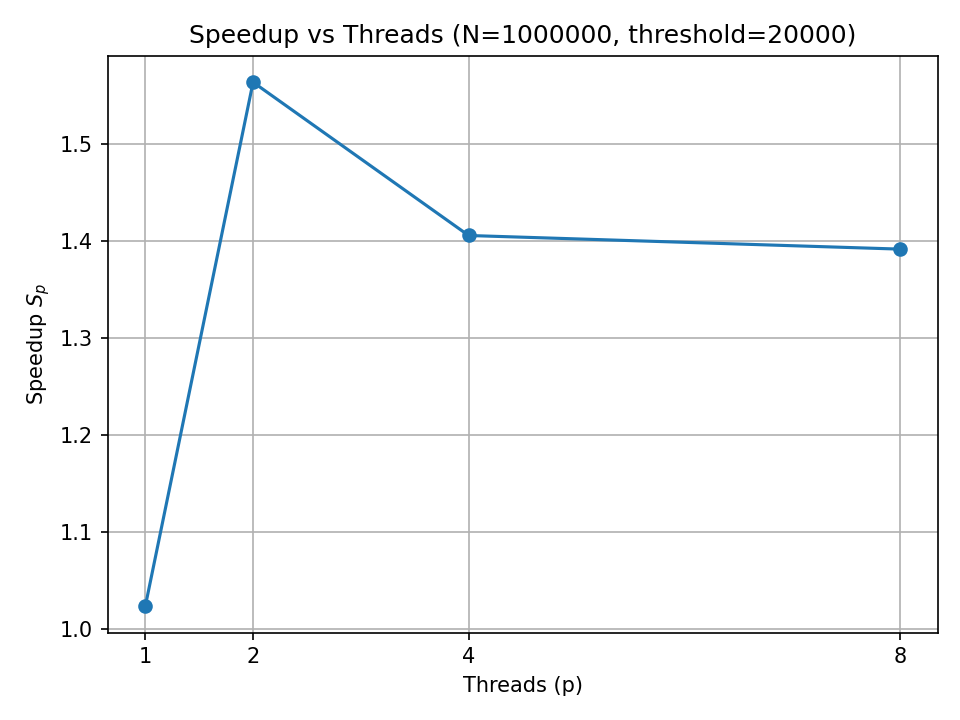
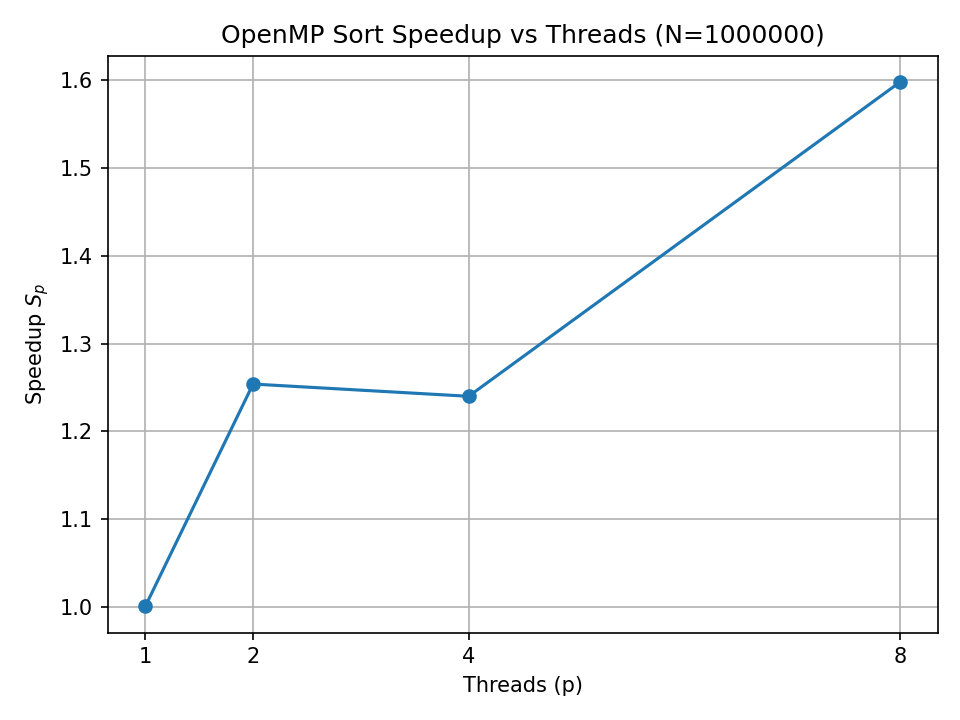
Fix lab2 speedup plot script and update N=1e6 results

diff --git a/labs/lab2_openmp_sort/plot_speedup.py b/labs/lab2_openmp_sort/plot_speedup.py
@@ -1,0 +1,82 @@
+import argparse
+import csv
+
+import matplotlib.pyplot as plt
+
+
+def load_speedup_from_csv(path):
+    threads = []
+    speedups = []
+    N = None
+    threshold = None  # 可选字段
+
+    with open(path, "r", newline="") as f:
+        reader = csv.DictReader(f)
+        for row in reader:
+            # 必须字段
+            t = int(row["threads"])
+            s = float(row["Speedup_Sp"])
+
+            threads.append(t)
+            speedups.append(s)
+
+            if N is None:
+                N = int(row["N"])
+
+            # 如果有 threshold 字段就顺便记一下，没有就忽略
+            if threshold is None and "threshold" in row and row["threshold"]:
+                try:
+                    threshold = int(row["threshold"])
+                except ValueError:
+                    threshold = None
+
+    return threads, speedups, N, threshold
+
+
+def main():
+    parser = argparse.ArgumentParser(
+        description="Plot Speedup vs Threads for OpenMP sort from CSV."
+    )
+    parser.add_argument(
+        "csv_path",
+        type=str,
+        help="Path to CSV file, e.g. results_N1e6_threshold20000.csv",
+    )
+    parser.add_argument(
+        "--output",
+        type=str,
+        default=None,
+        help="Optional output image file name, e.g. speedup_N1e6.png",
+    )
+
+    args = parser.parse_args()
+
+    threads, speedups, N, threshold = load_speedup_from_csv(args.csv_path)
+
+    plt.style.use("default")
+    plt.figure()
+
+    plt.plot(threads, speedups, marker="o")
+
+    plt.xlabel("Threads (p)")
+    plt.ylabel("Speedup $S_p$")
+
+    if threshold is not None:
+        plt.title(f"OpenMP Sort Speedup vs Threads (N={N}, threshold={threshold})")
+    else:
+        plt.title(f"OpenMP Sort Speedup vs Threads (N={N})")
+
+    plt.grid(True)
+    plt.xticks(threads)
+
+    plt.tight_layout()
+
+    if args.output:
+        plt.savefig(args.output, dpi=150)
+        print(f"Saved figure to {args.output}")
+    else:
+        plt.show()
+
+
+if __name__ == "__main__":
+    main()
